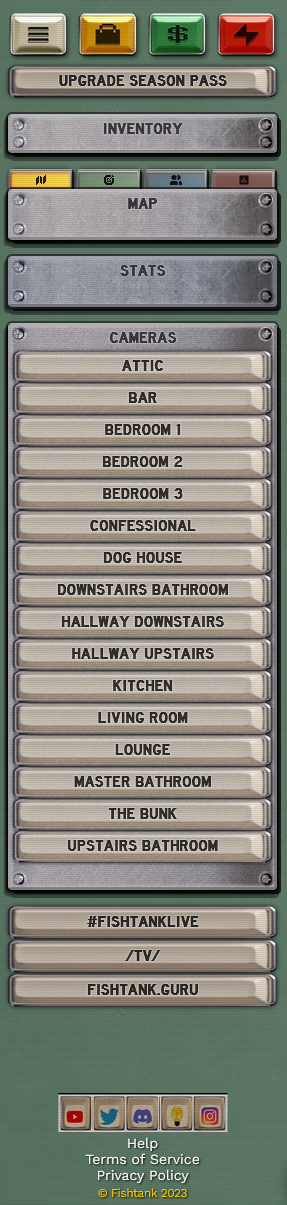
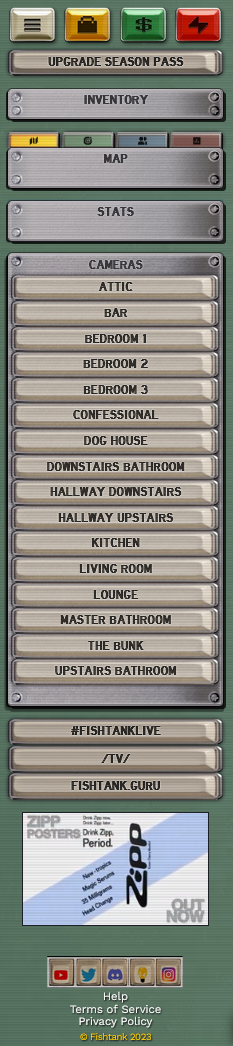
moves camera list and quick link buttons above ad gif

diff --git a/fishtank-s02-qol.js b/fishtank-s02-qol.js
@@ -2,7 +2,7 @@
 // @name         fishtank-s02 QoL
 // @description  Adds some quality of life features for Fishtank season 2 site
 // @namespace    http://tampermonkey.net/
-// @version      2024-01-13
+// @version      2024-01-18
 // @author       barrettotte
 // @match        *://*.fishtank.live/*
 // @run-at       document-idle
@@ -116,7 +116,7 @@ function newButton(btnTxt) {
 function appendToLeftPanel(el) {
   const leftPanel = document.querySelector(leftPanelSelector);
   if (leftPanel != null) {
-    leftPanel.insertBefore(el, leftPanel.querySelector('.footer_footer__Mnt6p'));
+    leftPanel.insertBefore(el, leftPanel.querySelector("button[class^='ad_ad__']"));
   } else {
     console.error(`Left panel not loaded yet, cannot append element ${el}`);
   }

diff --git a/README.md b/README.md
@@ -7,10 +7,11 @@ More awesome features can be found at https://github.com/maejok-xx/maejok-tools
 ## Features
 
 - List of all cameras on left side
-- Button on left side to open `#fishtanklive` on X in new tab
-- Button on left side to open `/tv/` in new tab
-- Button on left side to open [fishtank.guru](https://fishtank.guru/), a site with all crafting recipes
 - Collapsible panels on left side by clicking title
+- Fishtank-related quick link buttons on left side
+  - Open `#fishtanklive` on X in new tab
+  - Open `/tv/` in new tab
+  - Open [fishtank.guru](https://fishtank.guru/), a site with all crafting recipes
 
 ## Screenshots
 
